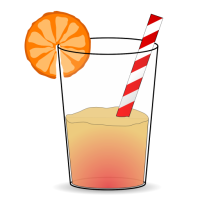
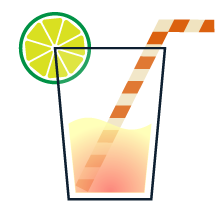
Dahsboard with new iOS7 design.

diff --git a/Assets/css/main.css b/Assets/css/main.css
@@ -1,7 +1,7 @@
 @import "roboto.css";
 
 body {
-    background-image: -webkit-linear-gradient(top, white, white 50%, #F9BD9F 100%);
+    background-image: -webkit-linear-gradient(top, #8bada3 0%, #3b6670 100%);
 }
 
 .align-center {
@@ -9,16 +9,23 @@ body {
 }
 
 h1 {
-    font-weight: 100;
-    font-size: 36pt;
-    font-family: 'Roboto', sans-serif;
+    font-weight: 200;
+    font-size: 48pt;
+    font-family: 'HelveticaNeue-UltraLight', 'Helvetica Neue UltraLight', 'Helvetica Neue', Arial, Helvetica, sans-serif;
     text-align: center;
+    color: white;
+}
+
+h3 {
+    font-family: "HelveticaNeue-Light", "Helvetica Neue Light", "Helvetica Neue", Helvetica, Arial, "Lucida Grande", sans-serif;
+    color: white;
 }
 
 img.kiba {
-    position: absolute;
-    right: 20px;
-    bottom: 20px;
+    display: block;
+    margin: 20px auto;
+    width: 220px;
+    height: 220px;
 }
 
 .chart {
@@ -29,7 +36,7 @@ img.kiba {
 }
 
 .chart-label {
-    font-family: 'Roboto', sans-serif;
+    font-family: "HelveticaNeue-Light", "Helvetica Neue Light", "Helvetica Neue", Helvetica, Arial, "Lucida Grande", sans-serif;
     font-size: 10pt;
     text-align: center;
     padding: 2px;

diff --git a/Assets/html/dashboard.html b/Assets/html/dashboard.html
@@ -6,6 +6,8 @@
     </head>
     <body>
         <h1>Willkommen bei KiBa.</h1>
+        
+        <img class="kiba" src="Assets/img/glas.png" width="200" height="200" alt="Ein Glas Kiba.">
 
         <div class="container">
             <div class="row">
@@ -26,8 +28,6 @@
                 </div>
             </div>
         </div>
-
-        <img class="kiba" src="Assets/img/glas.png" width="200" height="200" alt="Ein Glas Kiba.">
 
         <!-- Java Script -->
         <script type="text/javascript">
